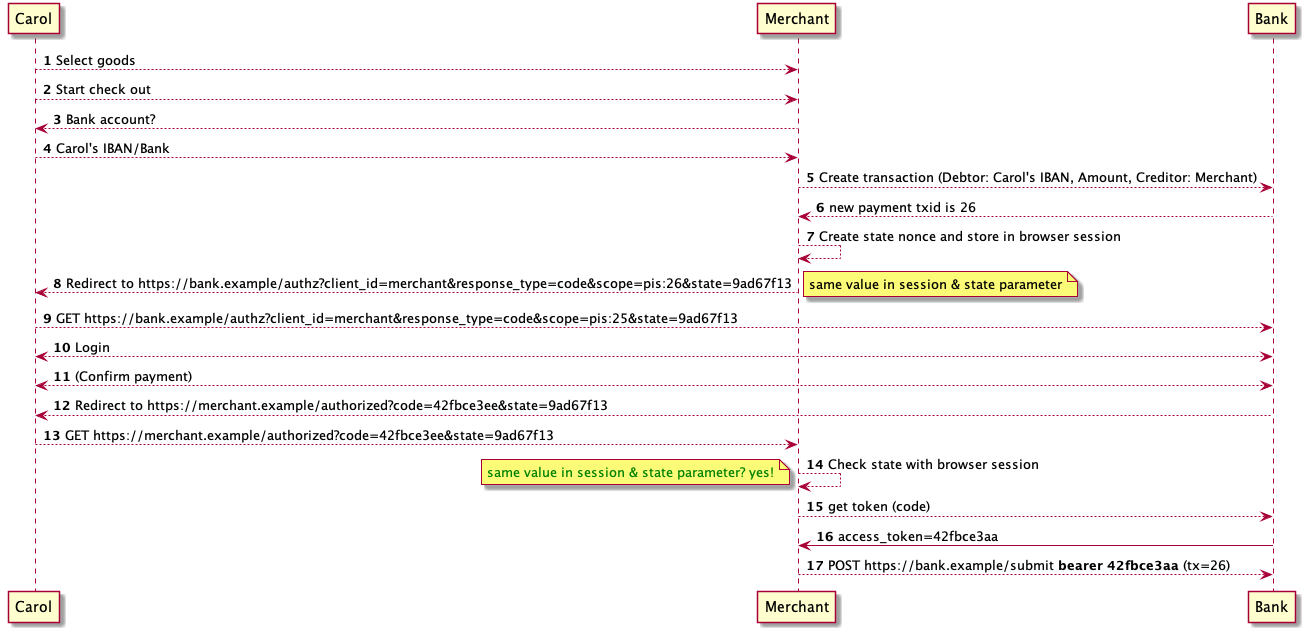
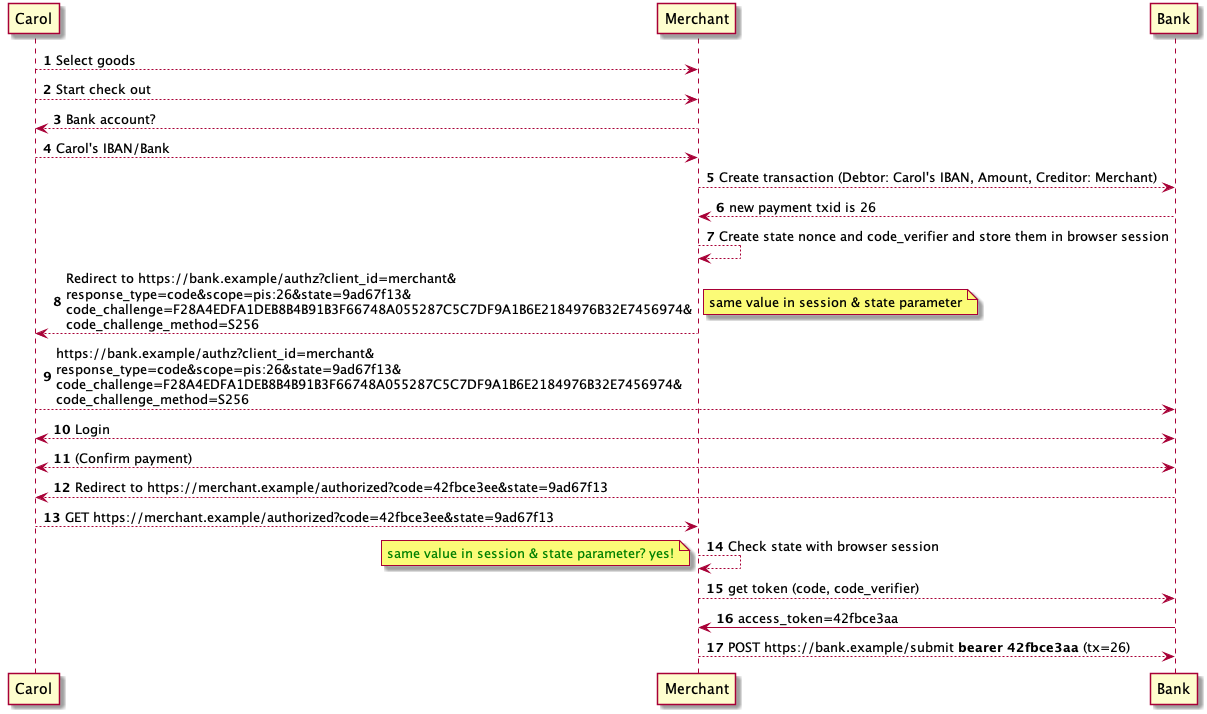
refactored document to focus on OAuth-based solution, generic mitigation has been moved to appendix

diff --git a/TR-Cross_browser_payment_initiation_attack.md b/TR-Cross_browser_payment_initiation_attack.md
@@ -1,8 +1,12 @@
-# Cross-Browser Payment Initiation Attack
+<header style="color:#000000;font-weight:400;text-decoration:none;vertical-align:baseline;font-size:26pt;font-family:"Arial";font-style:normal">
+Cross-Browser Payment Initiation Attack
+</header>
 
-Publication Date: 03.01.2019
+Publication Date: 01.03.2019
 
-## Introduction
+[TOC]
+
+# Introduction
 
 This document is based on a security threat analysis of several PSD2 API
 standards conducted by OpenID Foundation's Financial-grade API (FAPI)
@@ -15,7 +19,7 @@ consent to initiate the payment.
 Idea: Bob (B) wants to make Alice (A) pay for the goods he ordered at
 the web site of some merchant (M).
 
-## Vulnerable API Designs
+# Vulnerable API Designs
 
 Payment flows that follow the following basic scheme are vulnerable to
 the attack:
@@ -32,13 +36,13 @@ the attack:
 5.  The actual transfer of funds is performed in the same step before
     redirecting the user agent back to the merchant.
 
-As can be seen from the attack below, the fact that the transfer of
+As can be seen from the attack below, **the fact that the transfer of
 funds is performed before redirecting the user agent back to the
-merchant is what makes the API design vulnerable: There is no check that
+merchant is what makes the API design vulnerable**: There is no check that
 the flow was started in the same user agent in which the authentication
 and payment were performed.
 
-### Prerequisites
+## Prerequisites
 
 1.  Alice needs to be expecting some kind of payment flow, for example,
     because she is shopping for some goods.
@@ -73,11 +77,11 @@ and payment were performed.
     he might learn this from social engineering, data leakage on a web
     site, etc.
 
-## The Attack
+# The Attack
 
 ![](fapi-cross-browser-payment-initiation-example.png)
 
-### Preparation (Bob on Merchant's web site)
+## Preparation (Bob on Merchant's web site)
 
 **Message \# 1** Bob selects a product at a merchant web site.
 
@@ -100,7 +104,7 @@ authorization URL).
 copies the URL (which includes data identifying the payment initiation
 transaction).
 
-### Tricking Alice into paying
+## Tricking Alice into paying
 
 **Message \# 8 & \# 9** Bob tricks Alice into opening this URL in her
 browser (see [Prerequisites](#prerequisites)).
@@ -118,9 +122,14 @@ merchant's after pay landing page (in Alice's browser)
 
 **Message \# 15** The merchant site does not know anything about an
 ongoing checkout since there are no cookies in Alice's browser. It shows
-an error. Alice is confused[^1].
+an error. Alice is confused.
 
-### Harvesting the results[^2]
+Note: Depending on the exact method chosen to open the window, Bob
+    might be able to close the window of Alice's browser in which the
+    merchant website would be opened, e.g., because Bob controls the
+    top-level window.
+
+## Harvesting the results
 
 **Message \# 16** Bob waited for some time and then directs his browser
 to the merchant's after pay landing page (in his browser).
@@ -131,7 +140,10 @@ confirms the successful payment to Bob.
 
 **Message \# 18** The merchant delivers the goods to Bob.
 
-## The Vulnerability in Detail
+Note: Bob might repeat the steps listed here in order to get a precise
+    timing for closing that window.
+
+# The Vulnerability in Detail
 
 The reasons for this vulnerability are
 
@@ -145,15 +157,18 @@ The reasons for this vulnerability are
 This allows the attacker to prepare a transaction and remotely trick the
 victim into executing it. Since the attacker has all the details, it can
 benefit from the successful execution. That's why this kind of attack is
-typically referred to as "session fixation" (see
-https://en.wikipedia.org/wiki/Session\_fixation)[^3].
+typically referred to as ["session fixation"](https://en.wikipedia.org/wiki/Session\_fixation).
 
-The Strong Customer Authentication (SCA)/Dynamic Linking is the only
-line of defense in the design described above. This means it's Alice's
+**The Strong Customer Authentication (SCA)/Dynamic Linking is the only
+line of defense in the design described above.** This means it's Alice's
 responsibility to recognize the attack and stop it by refusing to
-perform the respective SCA[^4]. Since the attacker will most likely
+perform the respective SCA. Since the attacker will most likely
 synchronize his attack with a payment process Alice is expecting makes
 it even harder.
+
+Note: Neither the TPP nor the ASPSP will directly know Alice refused to
+    perform SCA because it recognized an attempt to attack her, which
+    means it's very hard to chase and stop the attacker effectively.
 
 The situation is getting even worse, if the particular transaction is
 subject to an exemption, e.g. because Alice whitelisted the respective
@@ -165,7 +180,96 @@ shoulders of the average PSU while there exist ways to mitigate this
 kind of attack on the protocol level without the need to rely on the
 user as shown in the following section.
 
-## Mitigation (General Approach)
+Note: This attack would also work for account information services. In
+    this case, the attacker sets up a transaction (or consent request),
+    which is then upgraded (authorized) by the victim. The attacker then
+    (through the TPP) just uses the handle to the transaction (or
+    consent resource) to access the account information.
+
+
+# Mitigation using OAuth 2.0
+
+The attack can be mitigated by generating and issuing a dynamically generated code (a nonce) in the browser-based authorization process which is required to complete the transaction. Since the attacker does not control Alice’s device, he is unable to get access to this code. Moreover, a check to verify the transaction’s binding to the particular browser is required.
+
+This mitigation **and mitigations against many other attacks[^2]** are already contained in the authorization code grant type defined by the [OAuth 2.0 authorization framework](https://tools.ietf.org/html/rfc6749#section-4.1).
+
+Using OAuth 2.0 for the payment flows enables merchants and banks to use existing, “battle-proven” implementations and frameworks (see [https://oauth.net/code/](https://oauth.net/code/)) and to avoid implementation errors. Moreover, the security of the OAuth protocol has been analyzed by security researchers in detail.
+
+Introducing OAuth 2.0 and the respective counter measures to the payment flow means: 
+
+* The bank does **not initiate the payment during the authorization process**.
+* The authorization process sends the browser back to the merchant site and the redirect includes a freshly generated code associated with the current transaction.
+* The merchant exchanges this code for an access token and uses it to initiate the payment using an API call exposed by the bank. 
+* This gives the merchant and the bank a chance to detect whether the transaction was relocated to a different device before the payment is actually initiated.
+
+**Before** the merchant triggers the payment initiation, it **must** check whether the authorization response it just received belongs to an authorization request that was sent from the current browser (**browser binding!**). 
+
+The merchant therefore adds a nonce in the “state” parameter to the authorization request and binds it to the user’s browser session. In the redirection back, the “state” parameter value is added again by the bank. The merchant then checks that the “state” parameter value matches the state value stored in the cookie.
+
+## Modified Payment Flow (good case)
+
+The payment initiation flow using OAuth 2.0 is shown in the following
+sequence diagram.
+
+![](fapi-cross-browser-payment-initiation-fix-oauth-good.png)
+
+Note: This flow applies all recommendations given for securing redirect based flow in the [OAuth 2.0 Security Best Current Practice](https://tools.ietf.org/html/draft-ietf-oauth-security-topics), i.e. it goes beyond just protecting against the security issue discussed in this document. 
+
+In order to make the flow OAuth compliant, the authorization request and response (messages #8 & #13) are modified to use OAuth standard parameters. 
+Note: The payment transaction id is encoded in the OAuth standard authorization request parameter “scope”.
+
+Beside the changes required to make the flow OAuth 2.0 compliant, there are three important additions:
+
+**(1) Browser Binding (CSRF protection)**
+In messages #7 & #8 the merchant establishes a nonce that is stored in the browser session and sent to the bank (in the OAuth parameter “state”), which links this transaction to the particular browser session. In message #14, the merchant compares the state values in the session to the value of the state response parameter. Since it is the same value, this transaction was initiated in the same browser and the process can continue. 
+
+**(2) Access Token for Payment Initiation**
+After this check (which only can take place at the merchant!), the merchant exchanges the OAuth code for an access token, which is used to initiate the payment. The code exchange request is authenticated using the credentials the merchant had set up with the bank (e.g. TLS Client Authentication using X.509 certificates). Only after checking the authorization code and its binding to the merchant’s client_id, the bank sends the access token to the merchant in the response (message #16). 
+
+**(3) Code Replay/Injection Prevention**
+In messages #7 & #8, the merchant establishes a nonce (the "code\_verifier") that is stored in the browser session and sends the SHA256 of this parameter in the OAuth parameter “code\_challenge” to the authorization server. In message #15, the merchant sends the "code\_verifier" along with the code to the authorization server. The authorization server compares the SHA-256 fingerprint of this parameter with the "code\_challange" initially sent with the authorization transaction in order to detect code replay attempts.
+
+##Modified Payment Flow (Attack)
+
+The following sequence diagram shows how the attack is prevented in the adapted protocol design.
+
+![](fapi-cross-browser-payment-initiation-fix-oauth.png)
+
+If Bob forwards the authorization URL to Alice, as in the attack above, then Alice would be redirected and the code would be received by the merchant but it will be received in Alice’s session with the merchant. At this point, **the CSRF protection in step #15 by the merchant will detect and prevent the attack**. The merchant will therefore not start the payment activation. 
+
+Moreover, **Bob is unable to utilize the results of Alice's payment authorization** because he does not know the authorization code provided in #13 to the merchant in Alice's session. Without the authorization code, Bob cannot simulate the authorization response from the bank which is the pre-requisite for utilizing the payment initiation authorized by Alice to his benefit. 
+
+#Summary
+
+The solution proposed in this document is compatible to existing implementations of OAuth 2.0. It establishes multiple layers of defense against the "Cross-Browser Payment Initation Attack" as well as other attacks. The [OAuth 2.0 Security Best Practice, Section 2.1](https://tools.ietf.org/html/draft-ietf-oauth-security-topics-10#section-2.1) gives the the full set of recommendations how to protect Redirect-Based
+Flows using OAuth 2.0. 
+
+In addition the OpenID Foundation has published a [financial-grade
+security profile of OAuth 2.0](https://openid.net/wg/fapi/) which
+includes these best practices and additional security mechanisms.
+
+# Acknowledgement
+
+The following people contributed to this document:  
+  
+Nat Sakimura (Nomura Research Institute) -- Chair  
+Dave Tonge (Moneyhub) -- Co-chair, UK Implementation Entity Liaison  
+Brian Campbell (Ping Identity)
+
+# Authors' Addresses
+
+Dr. Torsten Lodderstedt
+
+yes.com AG  
+Email: torsten@yes.com  
+URI: http://www.yes.com/  
+  
+Dr. Daniel Fett  
+yes.com AG  
+Email: danielf@yes.com  
+URI: http://www.yes.com/
+
+# Appendix A: Mitigation (General Approach)
 
 The attack can be mitigated by generating and issuing a token in the
 browser-based authorization process, which is required to complete the
@@ -245,91 +349,5 @@ happen, for example, through referrer headers set by the browser, the
 browser history, log files of browsers, proxy servers, and operating
 systems, and, on mobile operating systems, during communication between
 apps.
-
-## Mitigation using OAuth 2.0
-
-The mitigation above and mitigations against other attacks are already
-contained in the authorization code grant type defined by the OAuth 2.0
-authorization framework
-([https://tools.ietf.org/html/rfc6749\#section-4.1](https://tools.ietf.org/html/rfc6749#section-4.1)).
-With minor changes, the flow above can be adapted for OAuth.
-
-The payment initiation flow using OAuth 2.0 is shown in the following
-sequence diagram.
-
-![](fapi-cross-browser-payment-initiation-oauth-good.png)
-
-It looks similar to the flow shown before, except for the following
-changes:
-
--   It uses the standard OAuth parameters in the authorization request
-    (messages \# 8 & \# 9). The payment transaction id is encoded in the
-    so-called "scope" parameter.
--   Instead of returning the token to the merchant in the authorization
-    response (messages \# 12 & \# 13), the bank only returns a so-called
-    *authorization code*, a one-time use token chosen by the bank and
-    bound to the identity (client\_id) of the merchant. The
-    authorization response also contains the "state" parameter as sent
-    in the authorization response.
--   The merchant then sends a request to the bank containing the
-    authorization code (message \# 15). This request is authenticated
-    using the credentials the merchant had set up with the bank (e.g.
-    TLS Client Authentication using X.509 certificates). Only after
-    checking the authorization code and its binding to the merchant's
-    client\_id, the bank sends the access token to the merchant in the
-    response (message \# 16).
--   The merchant then sends the access token with the request to submit
-    the actual payment to the bank's payment initiation API (message
-    \# 17).
-
-This solution is compatible to existing implementations of OAuth 2.0.
-The security of the OAuth protocol has been analyzed in detail and
-existing security recommendations can be applied.
-
-Note:
-[https://tools.ietf.org/html/draft-ietf-oauth-security-topics-10\#section-2.1](https://tools.ietf.org/html/draft-ietf-oauth-security-topics-10#section-2.1)
-gives the the full set of recommendations how to protect Redirect-Based
-Flows using OAuth 2.0.
-
-In addition the OpenID Foundation has published a [financial-grade
-security profile of OAuth 2.0](https://openid.net/wg/fapi/) which
-includes these best practices and additional security mechanisms.
-
-## Acknowledgement
-
-The following people contributed to this document:  
-  
-Nat Sakimura (Nomura Research Institute) -- Chair  
-Dave Tonge (Moneyhub) -- Co-chair, UK Implementation Entity Liaison  
-Brian Campbell (Ping Identity)
-
-## Authors' Addresses
-
-Dr. Torsten Lodderstedt
-
-yes.com AG  
-Email: torsten@yes.com  
-URI: http://www.yes.com/  
-  
-Daniel Fett  
-yes.com AG  
-Email: danielf@yes.com  
-URI: http://www.yes.com/  
-
-[^1]:  Depending on the exact method chosen to open the window, Bob
-    might be able to close the window of Alice's browser in which the
-    merchant website would be opened, e.g., because Bob controls the
-    top-level window.
-
-[^2]:  Bob might repeat the steps listed next in order to get a precise
-    timing for closing that window.
-
-[^3]:  This attack would also work for account information services. In
-    this case, the attacker sets up a transaction (or consent request),
-    which is then upgraded (authorized) by the victim. The attacker then
-    (through the TPP) just uses the handle to the transaction (or
-    consent resource) to access the account information.
-
-[^4]:  Neither the TPP nor the ASPSP will directly know Alice refused to
-    perform SCA because it recognized an attempt to attack her, which
-    means it's very hard to chase and stop the attacker effectively.
+    
+[^2]: see https://tools.ietf.org/html/draft-ietf-oauth-security-topics
